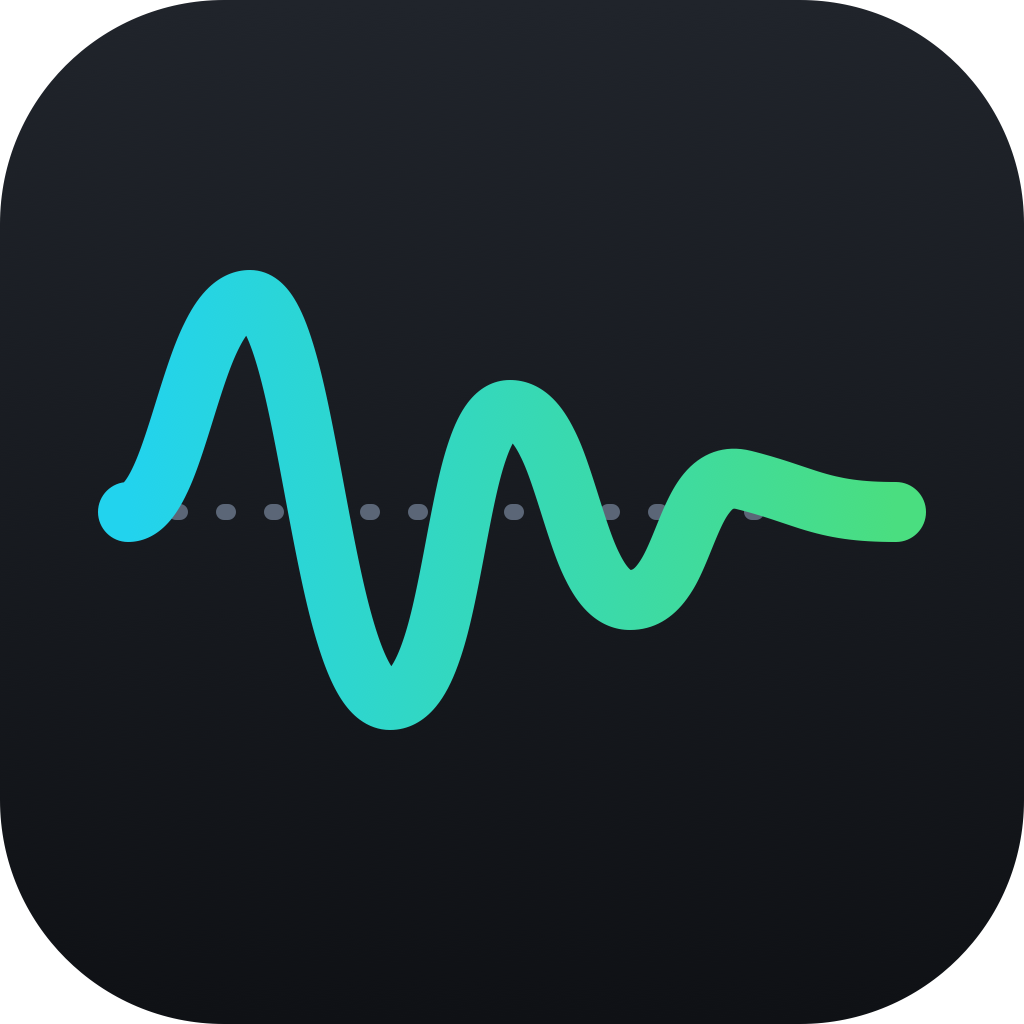
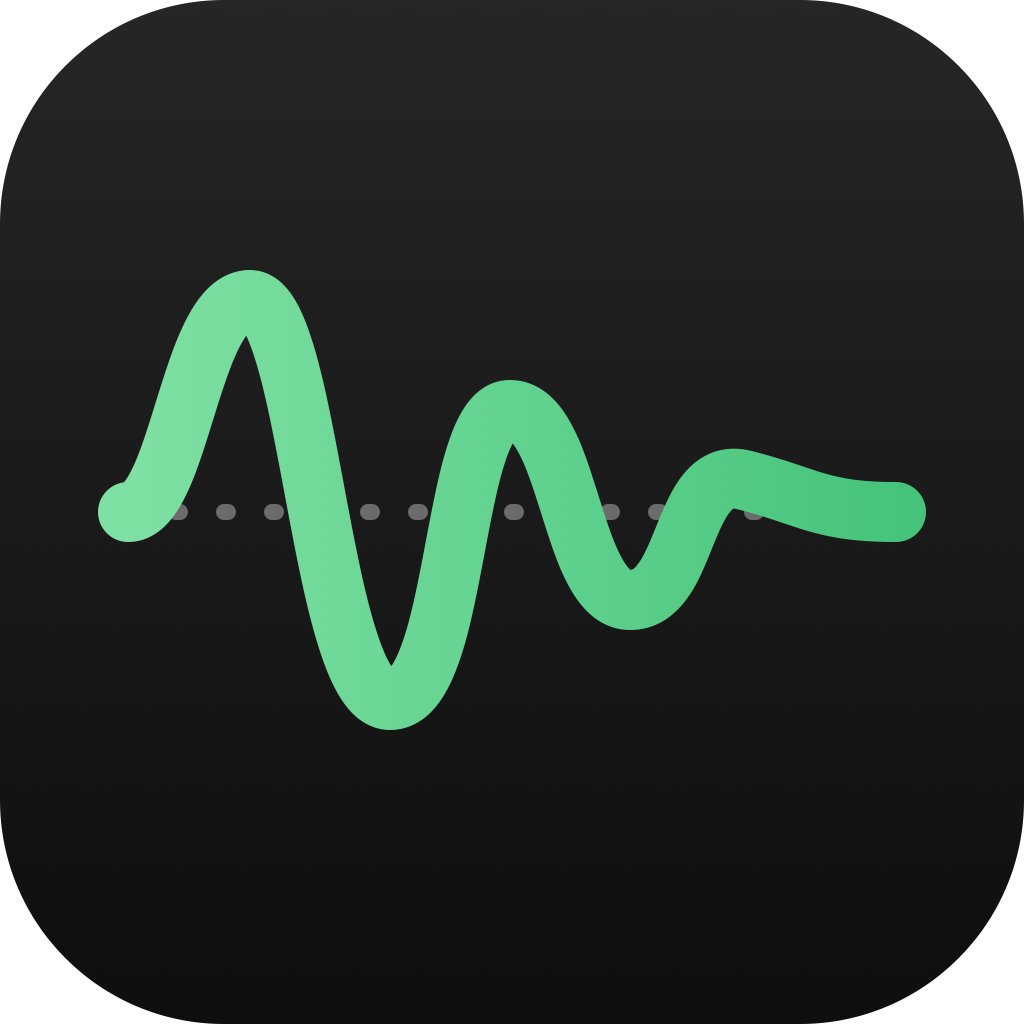
Theme: neutral dark greys only, no blue
Backgrounds, panels, dividers and the slider groove are neutral greys; the accent is one
muted green (EQ curve, sliders, meters, selection). The flat target is light grey, the
result pink. Text selection and the caret no longer use JUCE's default blue. The logo and
app icon follow the same palette.

Changed region(s): [[0.0938, 0.25, 0.6562, 0.7188], [0.8438, 0.4688, 0.9062, 0.5312]]

diff --git a/src/PluginEditor.h b/src/PluginEditor.h
@@ -4,17 +4,18 @@
 
 namespace theme
 {
-    const juce::Colour bg       { 0xff121418 };   // window / graph
-    const juce::Colour panel    { 0xff1a1d22 };   // header, status row, popups
-    const juce::Colour sidebar  { 0xff16181c };
-    const juce::Colour divider  { 0xff262a31 };
-    const juce::Colour track    { 0xff6b7586 };   // unfilled part of sliders: clearly lighter than the panels so the groove reads
-    const juce::Colour text     { 0xffe6e8eb };
-    const juce::Colour dim      { 0xff8a909a };
-    const juce::Colour accent   { 0xff22d3ee };   // selection, active controls
-    const juce::Colour good     { 0xff4ade80 };   // correction target (mono) / meters
-    const juce::Colour result   { 0xffe879f9 };   // achieved response
-    const juce::Colour chanL    { 0xff4cc9f0 };
+    // Neutral dark greys only (no blue anywhere); one muted green accent, plus amber / orange / pink for the curves.
+    const juce::Colour bg       { 0xff121212 };   // window / graph
+    const juce::Colour panel    { 0xff1b1b1b };   // header, status row, popups
+    const juce::Colour sidebar  { 0xff161616 };
+    const juce::Colour divider  { 0xff2b2b2b };
+    const juce::Colour track    { 0xff6b6b6b };   // unfilled part of sliders: clearly lighter than the panels so the groove reads
+    const juce::Colour text     { 0xffe8e8e8 };
+    const juce::Colour dim      { 0xff8d8d8d };
+    const juce::Colour accent   { 0xff46c47c };   // selection, active controls, the EQ curve, meters
+    const juce::Colour good     { 0xffcfcfcf };   // the flat target line
+    const juce::Colour result   { 0xfff472b6 };   // achieved response
+    const juce::Colour chanL    { 0xff9be15d };
     const juce::Colour chanR    { 0xfff4a259 };
 }
 
@@ -25,7 +26,7 @@ public:
     void paint (juce::Graphics& g) override
     {
         auto r = getLocalBounds().toFloat();
-        g.setGradientFill (juce::ColourGradient (juce::Colour (0xff20242b), 0.f, r.getY(), juce::Colour (0xff0f1115), 0.f, r.getBottom(), false));
+        g.setGradientFill (juce::ColourGradient (juce::Colour (0xff262626), 0.f, r.getY(), juce::Colour (0xff0e0e0e), 0.f, r.getBottom(), false));
         g.fillRoundedRectangle (r, r.getWidth() * 0.22f);
         const float k = r.getWidth() / 512.f;
         auto P = [&] (float x, float y) { return juce::Point<float> (r.getX() + x * k, r.getY() + y * k); };
@@ -33,7 +34,7 @@ public:
         auto c = [&] (float x1, float y1, float x2, float y2, float x3, float y3) { w.cubicTo (P (x1, y1), P (x2, y2), P (x3, y3)); };
         c (90, 256, 95, 150, 125, 150); c (155, 150, 160, 350, 195, 350); c (230, 350, 225, 205, 255, 205);
         c (285, 205, 285, 300, 315, 300); c (345, 300, 340, 232, 372, 240); c (404, 248, 410, 256, 448, 256);
-        g.setGradientFill (juce::ColourGradient (theme::accent, P (64, 0).x, 0.f, theme::good, P (448, 0).x, 0.f, false));
+        g.setGradientFill (juce::ColourGradient (theme::accent.brighter (0.6f), P (64, 0).x, 0.f, theme::accent, P (448, 0).x, 0.f, false));
         g.strokePath (w, juce::PathStrokeType (30.f * k, juce::PathStrokeType::curved, juce::PathStrokeType::rounded));
     }
 };
@@ -93,7 +94,7 @@ public:
     void paintButton (juce::Graphics& g, bool over, bool) override
     {
         auto r = getLocalBounds().toFloat();
-        if (over) { g.setColour (juce::Colour (0xff23272e)); g.fillRoundedRectangle (r, 6.f); }
+        if (over) { g.setColour (juce::Colour (0xff262626)); g.fillRoundedRectangle (r, 6.f); }
         const auto c = r.getCentre(); const float rad = 8.f;
         const bool on = getToggleState();
         g.setColour (on ? theme::accent : (over ? theme::text : theme::dim));
@@ -143,7 +144,7 @@ public:
     void paintButton (juce::Graphics& g, bool over, bool) override
     {
         auto r = getLocalBounds().toFloat();
-        if (over) { g.setColour (juce::Colour (0xff23272e)); g.fillRoundedRectangle (r, 6.f); }
+        if (over) { g.setColour (juce::Colour (0xff262626)); g.fillRoundedRectangle (r, 6.f); }
         const auto c = r.getCentre(); const bool muted = getToggleState();
         const auto col = muted ? juce::Colour (0xffef4444) : (over ? theme::text : theme::dim);
         juce::Path body; body.addTriangle (c.x - 2.f, c.y - 6.f, c.x - 2.f, c.y + 6.f, c.x - 9.f, c.y);
@@ -164,7 +165,7 @@ public:
     void paintButton (juce::Graphics& g, bool over, bool) override
     {
         auto r = getLocalBounds().toFloat();
-        if (over) { g.setColour (juce::Colour (0xff23272e)); g.fillRoundedRectangle (r, 6.f); }
+        if (over) { g.setColour (juce::Colour (0xff262626)); g.fillRoundedRectangle (r, 6.f); }
         const auto c = r.getCentre(); const bool on = getToggleState();
         g.setColour (on ? theme::accent : (over ? theme::text : theme::dim));
         auto arrow = [&] (float y, float dir)   // dir +1 points right, -1 points left
@@ -187,9 +188,9 @@ public:
     void paintButton (juce::Graphics& g, bool over, bool) override
     {
         auto r = getLocalBounds().toFloat();
-        if (over) { g.setColour (juce::Colour (0xff23272e)); g.fillRoundedRectangle (r, 6.f); }
+        if (over) { g.setColour (juce::Colour (0xff262626)); g.fillRoundedRectangle (r, 6.f); }
         const bool enabled = ! getToggleState();
-        const auto col = enabled ? theme::good : theme::dim;
+        const auto col = enabled ? theme::accent : theme::dim;
         const juce::Point<float> c (r.getX() + 24.f, r.getCentreY());
         juce::Path p; p.addCentredArc (c.x, c.y, 9.f, 9.f, 0.f, 0.55f, juce::MathConstants<float>::twoPi - 0.55f, true);
         p.startNewSubPath (c.x, c.y - 12.f); p.lineTo (c.x, c.y - 1.f);
@@ -268,7 +269,7 @@ public:
     void paintButton (juce::Graphics& g, bool over, bool) override
     {
         auto r = getLocalBounds().toFloat();
-        if (over) { g.setColour (juce::Colour (0xff23272e)); g.fillRoundedRectangle (r, 6.f); }
+        if (over) { g.setColour (juce::Colour (0xff262626)); g.fillRoundedRectangle (r, 6.f); }
         g.setColour (over ? theme::text : theme::dim);
         for (int i = -1; i <= 1; ++i) g.fillEllipse (r.getCentreX() - 2.f, r.getCentreY() + (float) i * 6.f - 2.f, 4.f, 4.f);
     }

diff --git a/src/PluginEditor.cpp b/src/PluginEditor.cpp
@@ -13,7 +13,7 @@ FlatQLookAndFeel::FlatQLookAndFeel()
     setColour (juce::Slider::backgroundColourId, track);
     setColour (juce::Slider::textBoxTextColourId, text);
     setColour (juce::Slider::textBoxOutlineColourId, juce::Colours::transparentBlack);
-    setColour (juce::ComboBox::backgroundColourId, juce::Colour (0xff23272e));
+    setColour (juce::ComboBox::backgroundColourId, juce::Colour (0xff262626));
     setColour (juce::ComboBox::outlineColourId, divider);
     setColour (juce::ComboBox::textColourId, text);
     setColour (juce::ComboBox::arrowColourId, dim);
@@ -24,10 +24,13 @@ FlatQLookAndFeel::FlatQLookAndFeel()
     setColour (juce::BubbleComponent::backgroundColourId, panel);
     setColour (juce::BubbleComponent::outlineColourId, divider);
     setColour (juce::ListBox::backgroundColourId, sidebar);
+    setColour (juce::TextEditor::highlightColourId, accent.withAlpha (0.35f));
+    setColour (juce::CaretComponent::caretColourId, accent);
+    setColour (juce::Slider::rotarySliderOutlineColourId, track);
     setColour (juce::ToggleButton::textColourId, text);
     setColour (juce::ToggleButton::tickColourId, accent);
     setColour (juce::ToggleButton::tickDisabledColourId, dim);
-    setColour (juce::TextButton::buttonColourId, juce::Colour (0xff23272e));
+    setColour (juce::TextButton::buttonColourId, juce::Colour (0xff262626));
     setColour (juce::TextButton::buttonOnColourId, juce::Colour (0xffef4444));
     setColour (juce::TextButton::textColourOffId, text);
     setColour (juce::TextButton::textColourOnId, juce::Colours::white);
@@ -150,7 +153,7 @@ void ResponseGraph::paint (juce::Graphics& g)
     g.setFont (juce::FontOptions (11.f));
     for (float db = -range; db <= range + 0.1f; db += 6.f)
     {
-        g.setColour (db == 0 ? juce::Colour (0xff4a505a) : divider);
+        g.setColour (db == 0 ? juce::Colour (0xff4a4a4a) : divider);
         g.drawHorizontalLine ((int) yOf (db), plot.getX(), plot.getRight());
         g.setColour (dim);
         g.drawText ((db > 0 ? "+" : "") + juce::String ((int) db) + "dB", (int) plot.getRight() + 6, (int) yOf (db) - 7, 48, 14, juce::Justification::centredLeft);
@@ -159,7 +162,7 @@ void ResponseGraph::paint (juce::Graphics& g)
                      1000.f, 2000.f, 3000.f, 4000.f, 5000.f, 6000.f, 7000.f, 8000.f, 9000.f, 10000.f, 20000.f })
     {
         const bool major = f == 20.f || f == 100.f || f == 1000.f || f == 10000.f || f == 20000.f;
-        g.setColour (major ? juce::Colour (0xff30353d) : divider.withAlpha (0.6f));
+        g.setColour (major ? juce::Colour (0xff343434) : divider.withAlpha (0.6f));
         g.drawVerticalLine ((int) xOf (f), plot.getY(), plot.getBottom());
     }
     for (float f : { 20.f, 50.f, 100.f, 200.f, 500.f, 1000.f, 2000.f, 5000.f, 10000.f, 20000.f })
@@ -295,7 +298,7 @@ void LevelMeter::paint (juce::Graphics& g)
         held[c] = juce::jmax (pos, held[c] - 0.006f);
         auto fill = bar.withTop (bar.getBottom() - bar.getHeight() * pos);
         g.setGradientFill (juce::ColourGradient (juce::Colour (0xffef4444), 0.f, bar.getY(),
-                           good, 0.f, bar.getY() + bar.getHeight() * 0.25f, false));
+                           accent, 0.f, bar.getY() + bar.getHeight() * 0.25f, false));
         g.fillRoundedRectangle (fill, 2.f);
         if (held[c] > 0.01f) { g.setColour (text.withAlpha (0.8f)); g.fillRect (bar.getX(), bar.getBottom() - bar.getHeight() * held[c], bw, 1.5f); }
     }
@@ -305,7 +308,7 @@ void LevelMeter::paint (juce::Graphics& g)
 void StatusItem::paint (juce::Graphics& g)
 {
     using namespace theme;
-    if (hover && canClick) { g.setColour (juce::Colour (0xff22262c)); g.fillRect (getLocalBounds()); }
+    if (hover && canClick) { g.setColour (juce::Colour (0xff232323)); g.fillRect (getLocalBounds()); }
     g.setColour (divider); g.drawVerticalLine (0, 10.f, (float) getHeight() - 10.f);
     g.setColour (dim); g.setFont (juce::FontOptions (12.f));
     g.drawText (label, 14, 10, getWidth() - 20, 16, juce::Justification::centredLeft);
@@ -591,7 +594,7 @@ namespace
             for (int db : { 18, 12, 6, 0, -6, -12, -18 })
             {
                 const float y = (float) sliderTop + 6.f + (float) (sliderH - 12) * (18.f - (float) db) / 36.f;
-                g.setColour (db == 0 ? juce::Colour (0xff4a505a) : theme::divider); g.drawHorizontalLine ((int) y, 40.f, (float) getWidth() - 10.f);
+                g.setColour (db == 0 ? juce::Colour (0xff4a4a4a) : theme::divider); g.drawHorizontalLine ((int) y, 40.f, (float) getWidth() - 10.f);
                 g.setColour (theme::dim); g.drawText ((db > 0 ? "+" : "") + juce::String (db), 4, (int) y - 5, 32, 10, juce::Justification::centredRight);
             }
         }
@@ -778,9 +781,11 @@ FlatQEditor::FlatQEditor (FlatQProcessor& p) : AudioProcessorEditor (p), proc (p
         for (int i = 0; i < FlatQProcessor::numTargets(); ++i) targetPick.addItem (FlatQProcessor::targetName (i), i + 2);
         targetPick.setSelectedId (1, juce::dontSendNotification);
         searchBox.setTextToShowWhenEmpty ("Search " + juce::String (db.size()) + " measurements...", theme::dim);
-        searchBox.setColour (juce::TextEditor::backgroundColourId, juce::Colour (0xff23272e));
+        searchBox.setColour (juce::TextEditor::backgroundColourId, juce::Colour (0xff262626));
         searchBox.setColour (juce::TextEditor::textColourId, theme::text);
         searchBox.setColour (juce::TextEditor::outlineColourId, theme::divider);
+        searchBox.setColour (juce::TextEditor::highlightColourId, theme::accent.withAlpha (0.35f));
+        searchBox.setColour (juce::TextEditor::highlightedTextColourId, theme::text);
         searchBox.setColour (juce::TextEditor::focusedOutlineColourId, theme::accent);
         searchBox.setFont (juce::FontOptions (13.f));
         searchBox.setTooltip ("Search the AutoEq measurements (name, brand, source). Click a result to create a profile from it: the correction is target - measurement.");
